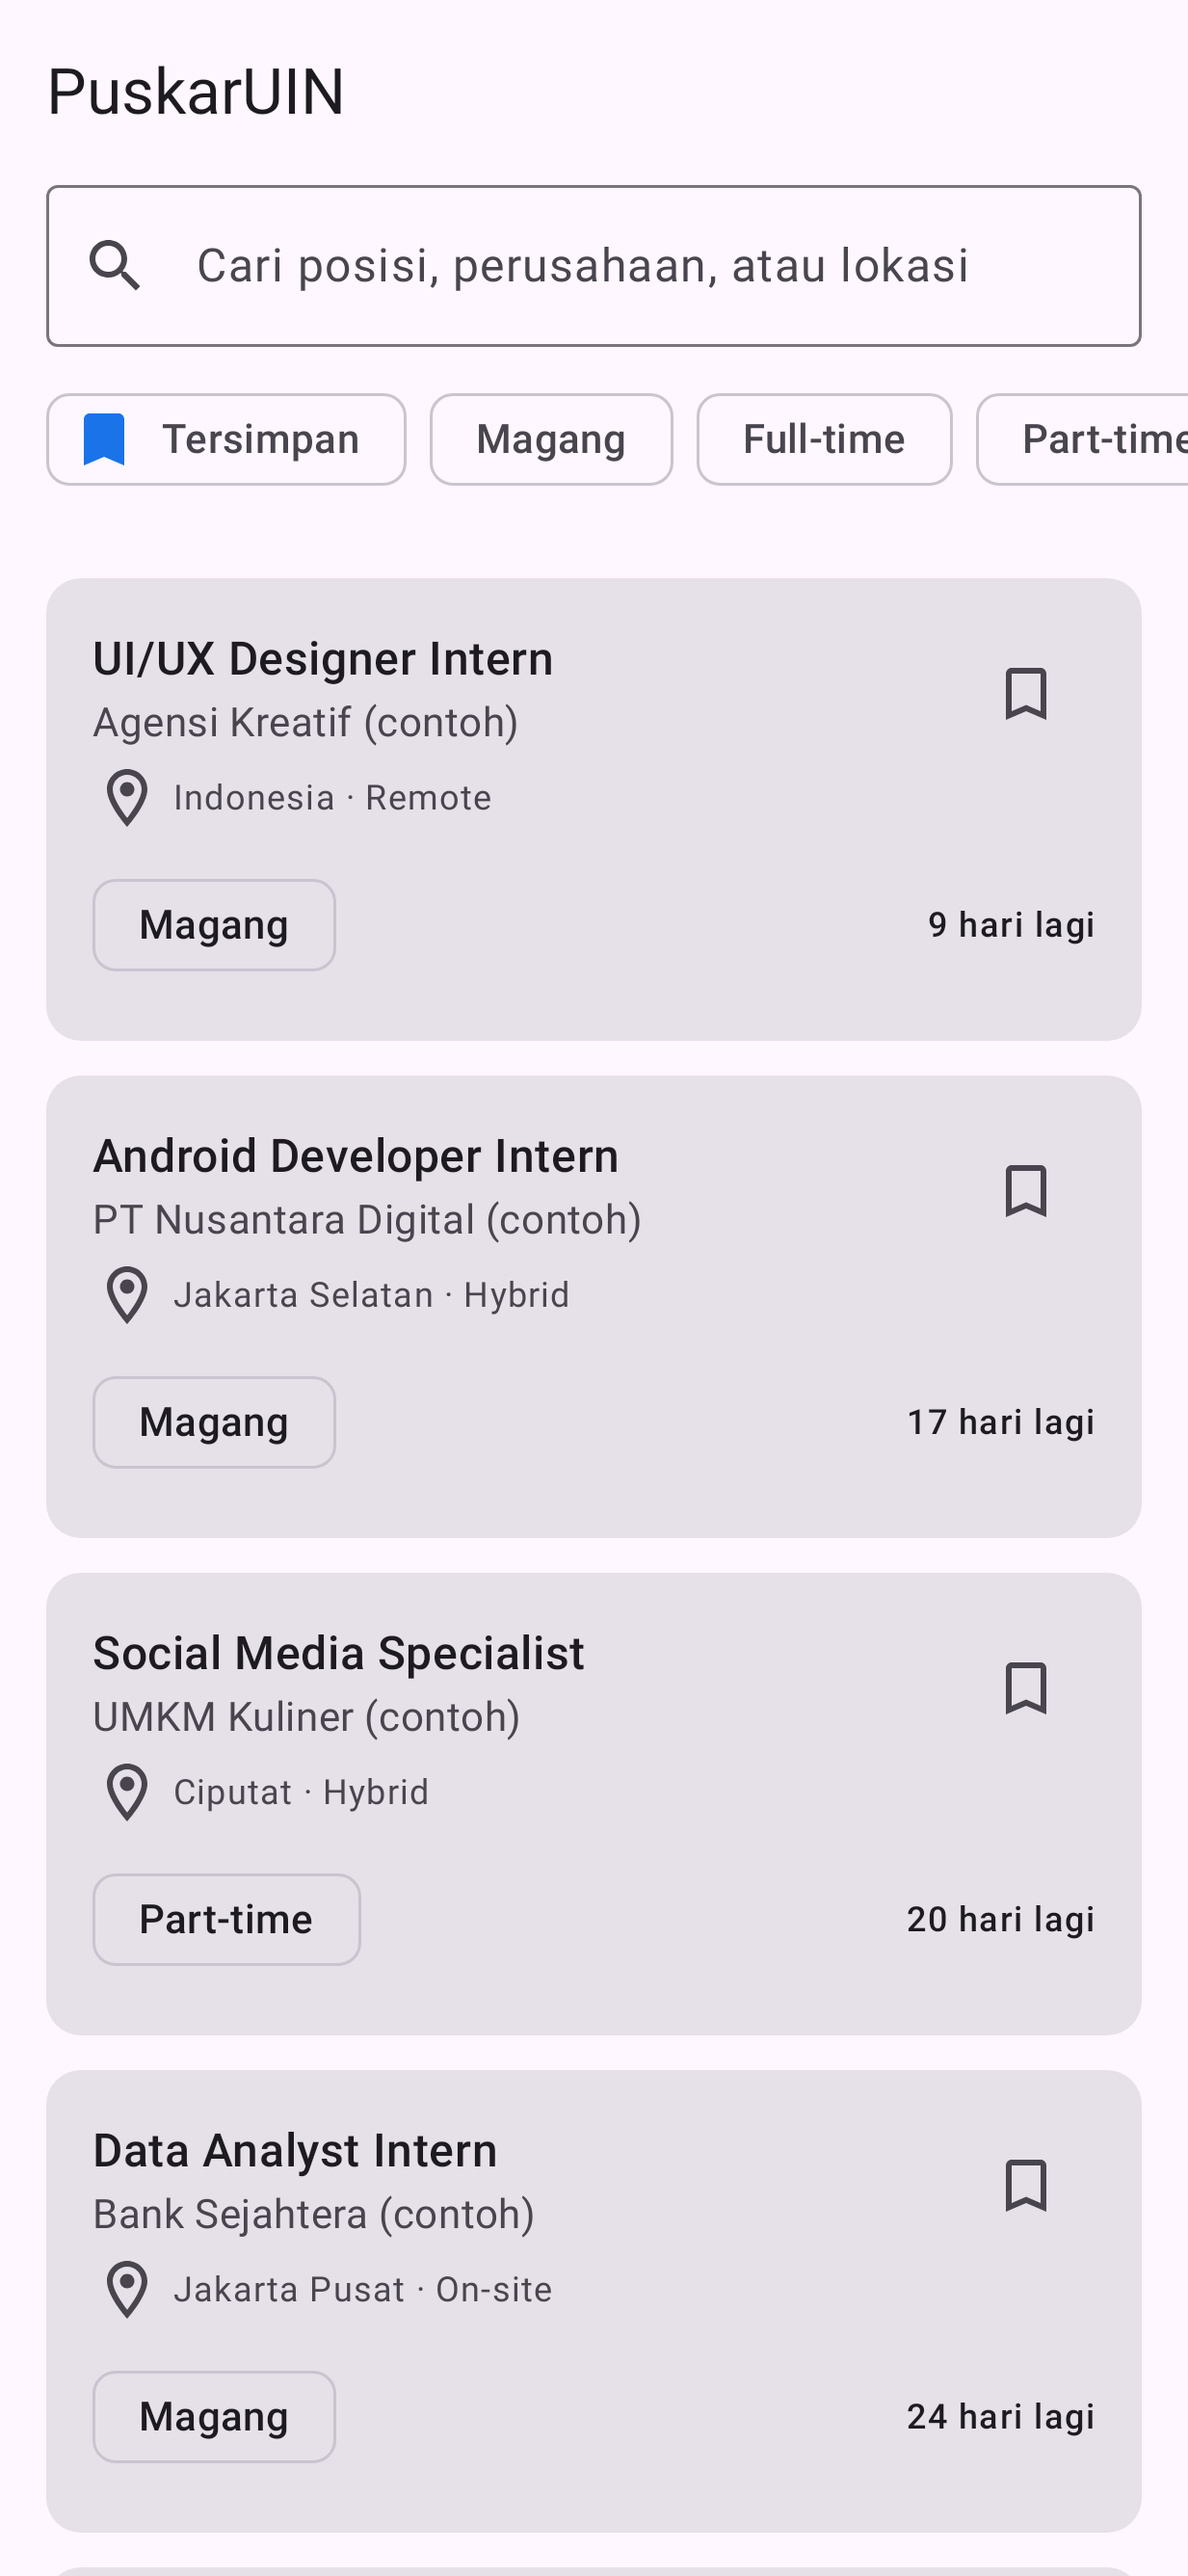
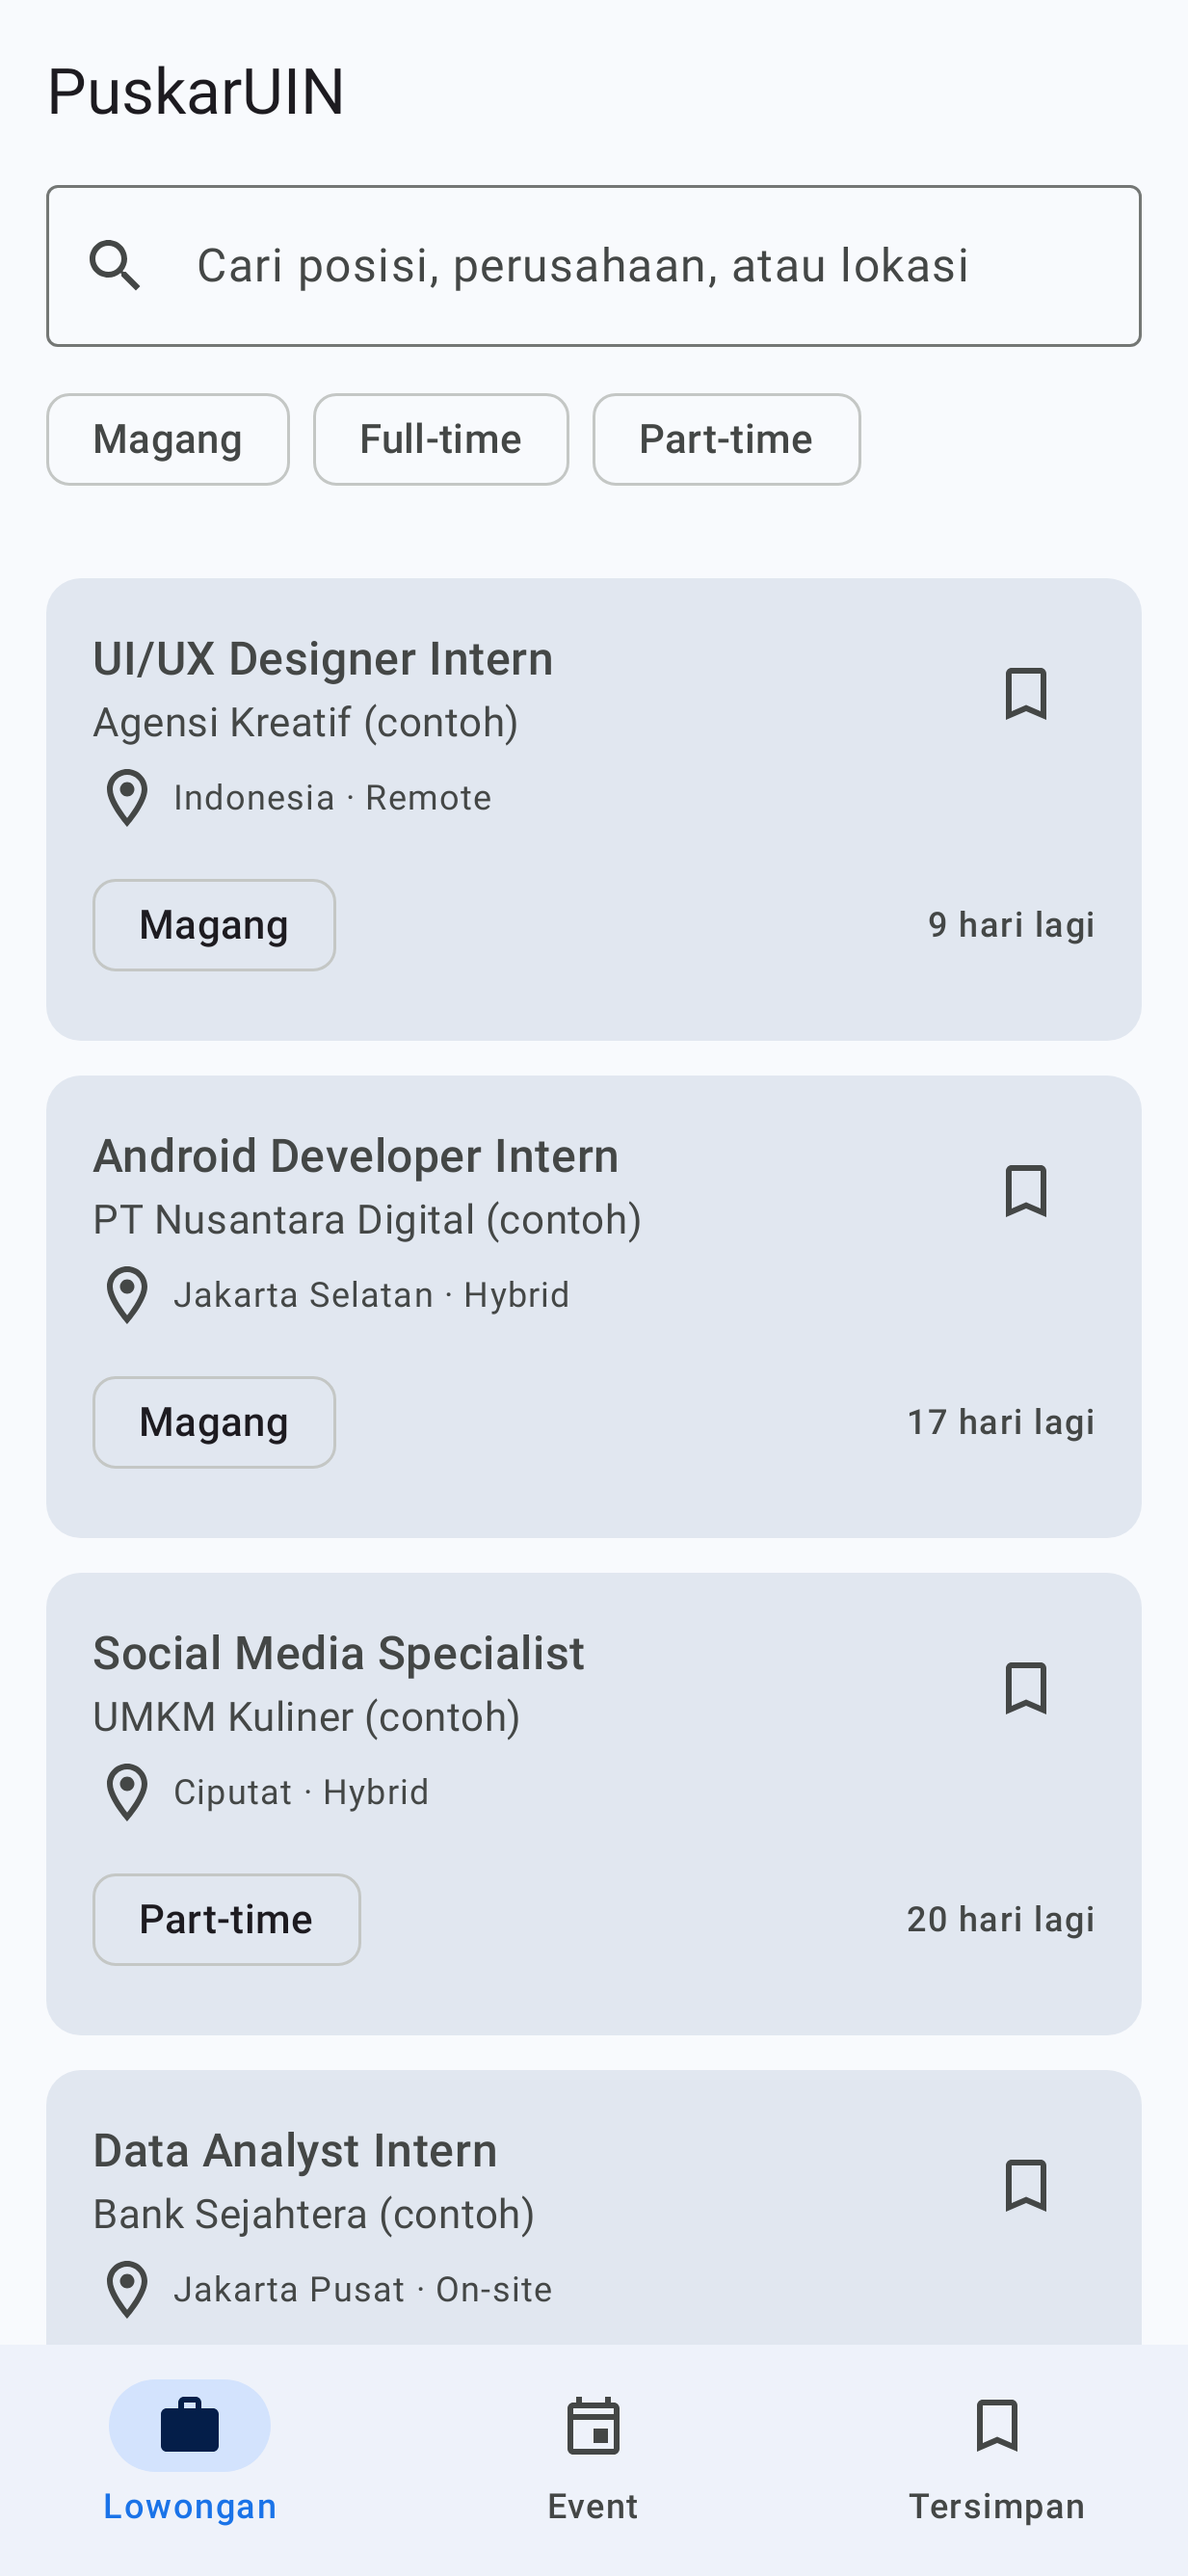
docs: README for v0.2.0 with events, reminders, and new screenshots

diff --git a/README.md b/README.md
@@ -1,16 +1,20 @@
 # PuskarUIN
 
-**PuskarUIN** is an Android app that helps UIN Syarif Hidayatullah Jakarta students find internships and job openings shared by the campus Career Center (Pusat Karier), all in one place.
+**PuskarUIN** is an Android app that helps UIN Syarif Hidayatullah Jakarta students find internships, job openings, and career events from the campus Career Center (Pusat Karier), all in one place.
 
-I built it while interning as a Data Specialist at Pusat Karier UIN Jakarta. Right now openings are spread across posters, Instagram posts, and group chats, so students miss deadlines. This app puts them in one searchable list that still works offline.
+I built it while interning as a Data Specialist at Pusat Karier UIN Jakarta. Right now openings are spread across posters, Instagram posts, and group chats, so students miss deadlines. This app puts them in one searchable place that works offline and reminds students before events start.
 
-> 🚧 **Status: early development (v0.1.0).** The app currently uses bundled **sample data** (companies marked "contoh"). Real data from Firestore is the next milestone; see the [Roadmap](#roadmap).
+> 🚧 **Status: early development (v0.2.0).** The app currently uses bundled **sample data** (companies and organizers marked "contoh"). Real data from Firestore is the next milestone; see the [Roadmap](#roadmap).
 
 ## Screenshots
 
-| Job list | Job detail | Search |
+| Jobs | Job detail | Search |
 |---|---|---|
 | <img src="docs/screenshots/01_job_list.png" width="250"/> | <img src="docs/screenshots/02_job_detail.png" width="250"/> | <img src="docs/screenshots/03_search.png" width="250"/> |
+
+| Events | Event detail | Saved | Dark theme |
+|---|---|---|---|
+| <img src="docs/screenshots/04_events.png" width="200"/> | <img src="docs/screenshots/05_event_detail.png" width="200"/> | <img src="docs/screenshots/06_saved.png" width="200"/> | <img src="docs/screenshots/07_events_dark.png" width="200"/> |
 
 *Screenshots are generated automatically by the UI test suite ([Roborazzi](https://github.com/takahirom/roborazzi)), so they always match the current code.*
 
@@ -20,7 +24,11 @@ I built it while interning as a Data Specialist at Pusat Karier UIN Jakarta. Rig
 - 🔍 **Search** by position, company, or location
 - 🏷 **Filter** by type (Internship / Full-time / Part-time)
 - 🔖 **Bookmarks** that are saved on the device and survive data refreshes
-- 📴 **Offline-first:** the last loaded list stays available without a connection
+- 📅 **Career events** (job fairs, workshops, webinars, company visits), split into upcoming and past, with an online/offline filter
+- 🔔 **Event reminders:** a notification 1 hour before the event starts; tapping it opens the event
+- 🗓 **Add to calendar** and **share** for events and jobs
+- ⭐ **Saved tab** with bookmarked jobs and active reminders in one place
+- 📴 **Offline-first:** the last loaded data stays available without a connection
 - ↻ **Pull to refresh**, with an error message if loading fails
 - 🌙 Light and dark theme (Material 3)
 
@@ -32,7 +40,8 @@ I built it while interning as a Data Specialist at Pusat Karier UIN Jakarta. Rig
 | UI | Jetpack Compose, Material 3, type-safe Navigation Compose |
 | Architecture | MVVM, unidirectional data flow, repository pattern |
 | Async | Kotlin Coroutines and Flow |
-| Local storage | Room |
+| Local storage | Room (with auto-migrations) |
+| Background work | WorkManager (event reminders) |
 | Dependency injection | Hilt |
 | Serialization | kotlinx.serialization |
 | Testing | JUnit, Turbine, kotlinx-coroutines-test, Robolectric, Compose UI Test, Roborazzi |
@@ -47,35 +56,43 @@ flowchart LR
         VM -->|StateFlow&lt;UiState&gt;| S
     end
     subgraph Data
-        R[OfflineFirstJobRepository]
-        DB[(Room<br/>jobs + bookmarks)]
-        RM[JobRemoteDataSource<br/>assets → Firestore]
+        R[Job / Event<br/>Repositories]
+        DB[(Room<br/>jobs, events,<br/>bookmarks, reminders)]
+        RM[Remote data sources<br/>assets → Firestore]
+        WM[WorkManager<br/>reminder notifications]
     end
     VM --> R
     R -->|observe| DB
     R -->|refresh| RM
     RM -->|write| DB
+    R -->|schedule / cancel| WM
 ```
 
 - **Room is the single source of truth.** The UI only observes the database, and refreshing from the remote source just updates it. That is why the app keeps working offline.
-- **Bookmarks have their own table**, so replacing the job list on refresh never deletes what the user saved.
-- **`JobRemoteDataSource` is an interface.** Today it reads `assets/jobs.json`. Switching to Firestore means writing one new class and changing one Hilt binding, with no changes to the UI or the repository.
+- **Bookmarks and reminders have their own tables**, so replacing the data on refresh never deletes what the user saved.
+- **Reminders use WorkManager**, so they survive app restarts and reboots without the exact-alarm permission. Event times are always treated as WIB, even when the phone is set to another time zone.
+- **Time is injected** (`java.time.Clock`), so "upcoming vs past" and reminder timing are tested with a frozen clock.
+- **Database changes ship with migrations.** Room's `AutoMigration` upgrades v1 to v2 without losing bookmarks.
+- **The remote data sources are interfaces.** Today they read `assets/jobs.json` and `assets/events.json`. Switching to Firestore means writing one new class and changing one Hilt binding, with no changes to the UI or the repository.
 - **Screens are stateless.** Each `*Route` connects a ViewModel to a stateless `*Screen`, so screens can be previewed and tested without Hilt.
 
 ```
 app/src/main/java/com/azvar/puskar/
 ├── core/designsystem/   # Theme and colors
 ├── data/
-│   ├── local/           # Room entities, DAO, database
-│   ├── remote/          # Remote data source + DTOs
-│   └── repository/      # Offline-first repository
+│   ├── local/           # Room entities, DAOs, database
+│   ├── reminder/        # WorkManager scheduler + notification worker
+│   ├── remote/          # Remote data sources + DTOs
+│   └── repository/      # Offline-first repositories
 ├── di/                  # Hilt modules
 ├── domain/model/        # Plain Kotlin models + filter logic
 └── ui/
-    ├── components/      # Reusable composables (JobCard)
+    ├── components/      # Reusable composables, formatters, intents
+    ├── events/          # Event list + detail screens and ViewModels
     ├── jobs/            # Job list screen + ViewModel
     ├── jobdetail/       # Job detail screen + ViewModel
-    └── navigation/      # Type-safe NavHost
+    ├── saved/           # Saved tab
+    └── navigation/      # Bottom navigation + type-safe NavHost
 ```
 
 ## Testing
@@ -86,8 +103,11 @@ app/src/main/java/com/azvar/puskar/
 ```
 
 - `JobFilterTest` covers the pure search and filter logic.
-- `JobsViewModelTest` covers UI state, filters, bookmarks, and how a failed refresh is handled, using a fake repository.
-- `AppFlowTest` runs the **real app** (Hilt, Room, and the bundled data) through Robolectric: it opens the list, opens a detail page, and searches.
+- `JobsViewModelTest` and `EventsViewModelTest` cover UI state, filters, bookmarks, reminders, and failed refreshes, using fake repositories and a frozen clock.
+- `OfflineFirstEventRepositoryTest` runs the **real Room queries** on an in-memory database: ordering, reminders surviving a refresh, and keeping cached data when the network fails.
+- `ReminderDelayTest` checks reminder timing, including a phone set to a different time zone.
+- `AppFlowTest` runs the **real app** (Hilt, Room, WorkManager, and the bundled data) through Robolectric: browsing, search, bookmarking, and turning on a reminder.
+- `DarkModeScreenshotTest` captures the dark theme.
 
 ## Getting started
 
@@ -103,8 +123,9 @@ No API keys or extra setup are needed for now.
 - [x] Job list with search, filter, bookmarks, and offline cache
 - [x] Job detail screen
 - [x] Unit tests, Robolectric UI tests, automatic screenshots
+- [x] **Career events** tab with reminders, calendar, and share
+- [x] Saved tab, bottom navigation, dark theme
 - [ ] Load real data from **Cloud Firestore**, managed by Career Center staff
-- [ ] **Career events** tab with reminders
 - [ ] Push notifications for new openings (**Firebase Cloud Messaging**)
 - [ ] ✨ **AI CV review and job matching** with **Gemini** (Firebase AI Logic)
 - [ ] Sign in with a Google account (**Firebase Auth**)
